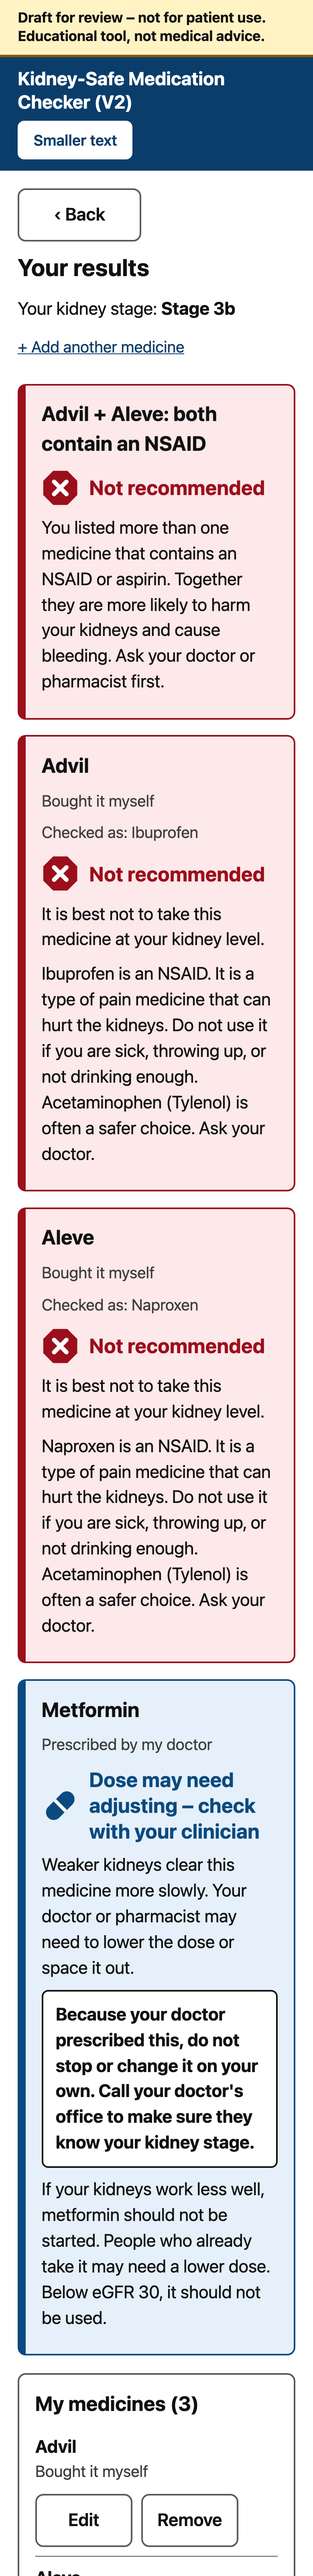
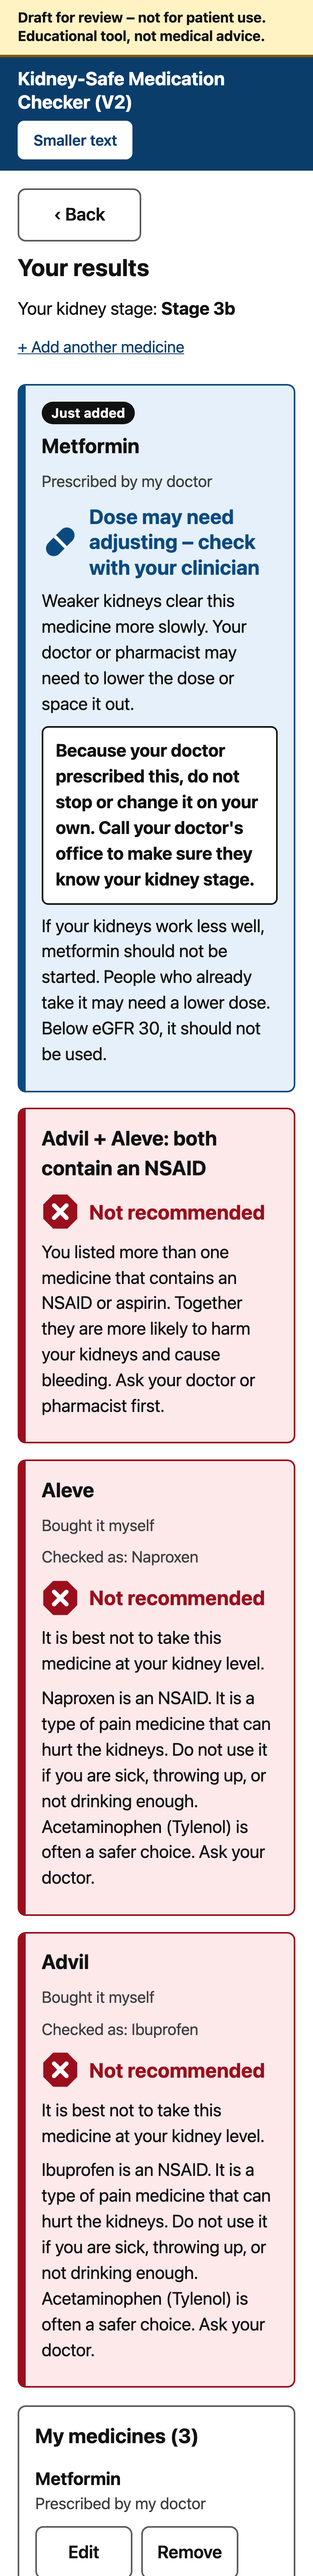
Show results newest first, with a "Just added" tag
Requested by Dr. Pramod for elderly patients, so the medicine just added
is at the top instead of at the bottom of the results.

- Results page: newest medicine card first (tagged "Just added"), then
  double-up alerts, then the remaining cards newest to oldest
- Editing a medicine makes it the newest
- "My medicines" list and printout use the same order
- Items get an addedAt number; lists saved before this change (without
  it) fall back to list position, so they load as before
- No change to results, rules, wording, or alert headings
- Tests: 6 new click-through checks, page-order test updated (142 pass)
- Version stamps rebuilt; affected screenshots retaken

diff --git a/tests.html b/tests.html
@@ -24,7 +24,7 @@
   <h2>The real site at phone width (360 px)</h2>
   <ul id="ui-list"></ul>
   <div id="ui-area"></div>
-  <script src="js/text.js?v=e4146a2474"></script>
+  <script src="js/text.js?v=b667a2ba8d"></script>
   <script src="js/engine.js?v=18e0c38dc8"></script>
   <script>
   var T = window.KMC_TEXT;
@@ -931,13 +931,14 @@
         return text().indexOf("Advil contains an NSAID and Alka-Seltzer / Alka-Seltzer Plus may contain aspirin") < 0
           ? "heading missing" : layoutProblem();
       });
-      await ui("v2 Results page order at 360 px: heading, stage, small add link, alerts, cards, list, add, change stage, print, keep box, clear link", async function () {
+      await ui("CHANGED (newest first): Results page order at 360 px: heading, stage, small add link, newest card, alerts, older cards, list, add, change stage, print, keep box, clear link", async function () {
         var q = function (sel) { return D().querySelector(sel); };
         var mainAdd = buttons().filter(function (b) { return b.classList.contains("primary") && b.textContent.trim() === T.addAnother; })[0];
         var change = buttons().filter(function (b) { return b.textContent.trim() === T.changeStage; })[0];
         var print = buttons().filter(function (b) { return b.textContent.trim() === T.printButton; })[0];
+        var cards = D().querySelectorAll(".card");
         var order = [["heading", q("#screen-title")], ["stage line", q(".stage-line")], ["small add link", q(".top-add")],
-                     ["double-up alert", q(".alert")], ["result card", q(".card")], ["My medicines", q(".my-list")],
+                     ["newest card", cards[0]], ["double-up alert", q(".alert")], ["older card", cards[1]], ["My medicines", q(".my-list")],
                      ["main add button", mainAdd], ["change stage", change], ["print", print], ["keep box", q(".keep")],
                      ["clear link", q(".danger-zone .link-button")]];
         var missing = order.filter(function (o) { return !o[1]; }).map(function (o) { return o[0]; });
@@ -958,6 +959,109 @@
         await click(T.seeResults);
         return all(!onMeds && "link did not open the medicines screen with the list", scrolled === 0 && "page too short to test scrolling",
                    W().scrollY !== 0 && "results did not open at the top (scrollY " + W().scrollY + ")");
+      });
+
+      /* Newest first (requested by Dr. Pramod): the medicine just added is the top card, with a "Just added" tag;
+         then the double-up alerts; then the other cards newest to oldest. The list and printout use the same order. */
+      function cardTitles() {
+        return Array.prototype.slice.call(D().querySelectorAll(".card h3")).map(function (e) { return e.textContent; }).join(" | ");
+      }
+      function listTitles() {
+        return Array.prototype.slice.call(D().querySelectorAll(".my-list .list-name strong")).map(function (e) { return e.textContent; }).join(" | ");
+      }
+      function printTitles() {
+        return Array.prototype.slice.call(D().querySelectorAll(".summary-row strong:first-child")).map(function (e) { return e.textContent; }).join(" | ");
+      }
+      function tags() {
+        return Array.prototype.slice.call(D().querySelectorAll(".just-added"));
+      }
+      // Each element after the first .card, up to the next .card, must be an alert; then the remaining cards.
+      function alertsRightAfterNewest() {
+        var first = D().querySelector(".card"), next = first && first.nextElementSibling, alerts = 0;
+        while (next && next.classList.contains("alert")) { alerts++; next = next.nextElementSibling; }
+        if (!alerts) return "no alert right after the newest card";
+        if (D().querySelectorAll(".alert").length !== alerts) return "an alert is not right after the newest card";
+        return next && next.classList.contains("card") ? null : "older cards do not follow the alerts";
+      }
+
+      await ui("NEW Newest first: Advil, then Metformin, then Aleve → cards Aleve | Metformin | Advil; alert right after the newest card; “Just added” only on the top card; 360 px", async function () {
+        await load();
+        await click("Stage 3b");
+        await addMed("Advil", "Bought it myself");
+        await addMed("Metformin", "Prescribed by my doctor");
+        await addMed("Aleve", "Bought it myself");
+        var medsList = listTitles();
+        await click(T.seeResults);
+        var t = tags();
+        return all(expect(cardTitles(), "Aleve | Metformin | Advil"), alertsRightAfterNewest(),
+                   expect(t.length, 1), t[0] && t[0].closest(".card") !== D().querySelector(".card") && "tag is not on the top card",
+                   t[0] && expect(t[0].textContent, "Just added"),
+                   text().indexOf("Advil + Aleve: both contain an NSAID") < 0 && "alert wording changed",
+                   expect(medsList, "Aleve | Metformin | Advil"), expect(listTitles(), "Aleve | Metformin | Advil"), layoutProblem());
+      });
+      await ui("NEW Newest first: the printout uses the same order (newest, alerts, the rest)", async function () {
+        await click(T.printButton);
+        var rows = D().querySelectorAll(".summary-row"), alert = D().querySelector(".alert");
+        var between = rows[0] && alert && (rows[0].compareDocumentPosition(alert) & 4) && (alert.compareDocumentPosition(rows[1]) & 4);
+        var titles = printTitles();
+        await back();
+        return all(expect(titles, "Aleve | Metformin | Advil"), !between && "alert is not between the newest row and the rest");
+      });
+      await ui("NEW Editing a medicine moves it to the top with the “Just added” tag; results and alert wording unchanged", async function () {
+        await click("Edit Advil");
+        await click("Bought it myself");
+        await type("dose", "200 mg");
+        await click("Save changes");
+        await sleep(250);
+        var t = tags(), top = D().querySelector(".card");
+        return all(expect(cardTitles(), "Advil | Aleve | Metformin"), expect(listTitles(), "Advil | Aleve | Metformin"),
+                   expect(t.length, 1), t[0] && t[0].closest(".card") !== top && "tag is not on the top card",
+                   top.textContent.indexOf("Not recommended") < 0 && "Advil result changed", alertsRightAfterNewest(),
+                   text().indexOf("Advil + Aleve: both contain an NSAID") < 0 && "alert wording changed", expect(listCount(), 3));
+      });
+      await ui("NEW Adding after an edit puts the new medicine on top; the edited one comes next", async function () {
+        await click(T.addAnother);
+        await addMed("Tylenol", "Bought it myself");
+        await click(T.seeResults);
+        return all(expect(cardTitles(), "Tylenol | Advil | Aleve | Metformin"), expect(listTitles(), "Tylenol | Advil | Aleve | Metformin"),
+                   expect(tags().length, 1), alertsRightAfterNewest(), layoutProblem());
+      });
+      await ui("NEW One medicine: one card with the “Just added” tag, no alert, list of 1, printout works", async function () {
+        await load();
+        await click("Stage 4");
+        await addMed("Lithium", "Prescribed by my doctor");
+        await click(T.seeResults);
+        var ok = all(expect(cardTitles(), "Lithium"), expect(tags().length, 1), D().querySelector(".alert") && "unexpected alert",
+                     expect(listTitles(), "Lithium"), text().indexOf("Dose may need adjusting") < 0 && "result missing", layoutProblem());
+        await click(T.printButton);
+        var printed = printTitles();
+        await back();
+        return all(ok, expect(printed, "Lithium"));
+      });
+      await ui("NEW A list saved before this change (no “added” numbers) still loads, oldest-added shown last", async function () {
+        await load();
+        await click("Stage 3a");
+        await addMed("Advil", "Bought it myself");
+        await addMed("Aleve", "Bought it myself");
+        await addMed("Tylenol", "Bought it myself");
+        await click(T.seeResults);
+        D().querySelector(".keep input[type=checkbox]").click();
+        await sleep(100);
+        var old = JSON.parse(saved());
+        old.items.forEach(function (item) { delete item.addedAt; });   // the format saved before this change
+        localStorage.setItem(KEY, JSON.stringify(old));
+        await load();
+        var welcome = text().indexOf("Welcome back. You have 3 medicines saved.") >= 0;
+        await click(T.welcomeAgain);
+        var order = cardTitles();
+        await click("Edit Advil");
+        await click("Bought it myself");
+        await click("Save changes");
+        await sleep(250);
+        var afterEdit = cardTitles();
+        localStorage.removeItem(KEY);
+        return all(!welcome && "old list did not load", expect(order, "Tylenol | Aleve | Advil"),
+                   expect(afterEdit, "Advil | Tylenol | Aleve"), alertsRightAfterNewest());
       });
     } finally {
       try { if (mine === null) localStorage.removeItem(KEY); else localStorage.setItem(KEY, mine); } catch (e) { /* blocked */ }

diff --git a/js/app.js b/js/app.js
@@ -200,11 +200,31 @@
     go(Engine.questionFor(table, pending) ? "answer" : "source");
   }
 
+  // Every screen shows medicines newest first, so the one just added (or edited) is always at the top.
+  // Each item gets an "addedAt" number when it is added or edited. state.items itself keeps its order,
+  // so double-up alert wording never changes. Lists saved before addedAt existed have no numbers;
+  // their place in the list (oldest first) stands in for it, so they load in the same order as before.
+  function addedAt(item, index) {
+    return typeof item.addedAt === "number" ? item.addedAt : index;
+  }
+
+  function nextStamp() {
+    return state.items.reduce(function (most, item, i) { return Math.max(most, addedAt(item, i)); }, -1) + 1;
+  }
+
+  // Takes a list parallel to state.items and returns it newest first.
+  function newestFirst(list) {
+    return list.map(function (entry, i) { return [entry, addedAt(state.items[i], i), i]; })
+      .sort(function (a, b) { return b[1] - a[1] || b[2] - a[2]; })
+      .map(function (x) { return x[0]; });
+  }
+
   function myMedicines() {
     var box = h("section", { class: "my-list", "aria-labelledby": "my-list-title" },
       h("h3", { id: "my-list-title" }, T.myMedicines + " (" + state.items.length + ")"));
     if (!state.items.length) box.appendChild(h("p", { class: "hint" }, T.emptyList));
-    state.items.forEach(function (item, index) {
+    newestFirst(state.items.map(function (item, index) { return [item, index]; })).forEach(function (pair) {
+      var item = pair[0], index = pair[1];
       box.appendChild(h("div", { class: "list-row" },
         h("div", { class: "list-name" }, h("strong", null, item.title), h("span", { class: "detail" }, itemDetail(item))),
         h("div", { class: "list-actions" },
@@ -381,6 +401,7 @@
         var item = pending;
         item.dose = input.value.trim();
         var back = stack.length - 1 - item.returnDepth;
+        item.addedAt = nextStamp();   // added or edited just now, so it becomes the newest
         if (editing) state.items[item.editIndex] = item;
         else state.items.push(item);
         delete item.editIndex;
@@ -426,8 +447,23 @@
     ];
   };
 
+  // Results newest first (see newestFirst). Double-up alerts still read the list in stored order,
+  // so their wording is unchanged.
   function outcomes() {
-    return state.items.map(function (item) { return Engine.evaluate(table, state, item); });
+    return newestFirst(state.items.map(function (item) { return Engine.evaluate(table, state, item); }));
+  }
+
+  function resultCard(result, newest) {
+    return h("article", { class: "card r-" + result.code + (newest ? " newest" : "") },
+      newest ? h("p", { class: "just-added" }, T.justAdded) : null,
+      h("h3", null, result.item.title),
+      h("p", { class: "detail" }, itemDetail(result.item)),
+      result.checkedAs ? h("p", { class: "detail" }, "Checked as: " + result.checkedAs) : null,
+      h("div", { class: "headline" }, icon(result.code), h("strong", null, result.headline)),
+      h("p", null, result.explanation),
+      result.safety ? h("p", { class: "safety" }, result.safety) : null,
+      result.alert ? h("p", null, h("strong", null, result.alert)) : null,
+      result.notes.map(function (note) { return h("p", null, note); }));
   }
 
   function alertBox(alert) {
@@ -446,19 +482,11 @@
       h("p", { class: "stage-line" }, "Your kidney stage: ", h("strong", null, stageLine())),
       h("button", { type: "button", class: "link-button top-add", onclick: function () { go("meds"); } }, T.addAnother)
     ];
+    // Order: the newest medicine (tagged "Just added"), then the double-up alerts, then the rest, newest to oldest.
+    var results = outcomes();
+    if (results.length) body.push(resultCard(results[0], true));
     Engine.doubleUps(table, state.items).forEach(function (alert) { body.push(alertBox(alert)); });
-
-    outcomes().forEach(function (result) {
-      body.push(h("article", { class: "card r-" + result.code },
-        h("h3", null, result.item.title),
-        h("p", { class: "detail" }, itemDetail(result.item)),
-        result.checkedAs ? h("p", { class: "detail" }, "Checked as: " + result.checkedAs) : null,
-        h("div", { class: "headline" }, icon(result.code), h("strong", null, result.headline)),
-        h("p", null, result.explanation),
-        result.safety ? h("p", { class: "safety" }, result.safety) : null,
-        result.alert ? h("p", null, h("strong", null, result.alert)) : null,
-        result.notes.map(function (note) { return h("p", null, note); })));
-    });
+    results.slice(1).forEach(function (result) { body.push(resultCard(result, false)); });
 
     body.push(myMedicines());
     body.push(button(T.addAnother, function () { go("meds"); }, "primary"));
@@ -495,19 +523,21 @@
   };
 
   screens.summary = function () {
-    var list = h("div", { class: "summary-list" });
-    outcomes().forEach(function (result) {
-      list.appendChild(h("div", { class: "summary-row r-" + result.code },
+    function row(result) {
+      return h("div", { class: "summary-row r-" + result.code },
         h("div", null, h("strong", null, result.item.title),
           h("span", { class: "detail" }, [result.checkedAs, itemDetail(result.item)].filter(Boolean).join(" · "))),
-        h("div", { class: "headline" }, icon(result.code), h("strong", null, result.label))));
-    });
+        h("div", { class: "headline" }, icon(result.code), h("strong", null, result.label)));
+    }
+    // Same order as the results page: newest medicine, then the double-up alerts, then the rest.
+    var results = outcomes();
     return [
       title("Summary for my doctor"),
       h("p", null, h("strong", null, "Date: "), niceDate()),
       h("p", null, h("strong", null, "Kidney stage: "), stageLine()),
+      results.length ? h("div", { class: "summary-list" }, row(results[0])) : null,
       Engine.doubleUps(table, state.items).map(alertBox),
-      list,
+      results.length > 1 ? h("div", { class: "summary-list" }, results.slice(1).map(row)) : null,
       button("Print this page", function () { window.print(); }, "primary no-print")
     ];
   };

diff --git a/index.html b/index.html
@@ -6,7 +6,7 @@
   <meta name="viewport" content="width=device-width, initial-scale=1">
   <title>Kidney-Safe Medication Checker (V2)</title>
   <link rel="icon" href="data:,">
-  <link rel="stylesheet" href="css/style.css?v=846e33ee72">
+  <link rel="stylesheet" href="css/style.css?v=20e5b8c4e2">
 </head>
 <body>
   <div class="draft-banner" role="note">Draft for review – not for patient use. Educational tool, not medical advice.</div>
@@ -30,8 +30,8 @@
       setTimeout(stuck, 10000);
     })();
   </script>
-  <script src="js/text.js?v=e4146a2474"></script>
+  <script src="js/text.js?v=b667a2ba8d"></script>
   <script src="js/engine.js?v=18e0c38dc8"></script>
-  <script src="js/app.js?v=3b9b3df28c"></script>
+  <script src="js/app.js?v=7245a34c20"></script>
 </body>
 </html>

diff --git a/css/style.css b/css/style.css
@@ -171,6 +171,18 @@ input[type="text"], input[type="search"], input[type="date"] {
   border-radius: 10px;
 }
 .card h3, .alert h3 { margin-top: 0; margin-bottom: 0; overflow-wrap: anywhere; }
+/* The small tag on the medicine added (or edited) most recently, which is always the top card. */
+.just-added {
+  display: inline-block;
+  margin: 0 0 0.4rem;
+  padding: 0.1rem 0.55rem;
+  background: var(--ink);
+  color: #fff;
+  border-radius: 999px;
+  font-size: 0.75rem;
+  font-weight: 700;
+  letter-spacing: 0.02em;
+}
 .did-you-mean { margin-bottom: 0; }
 .headline {
   display: flex;

diff --git a/js/text.js b/js/text.js
@@ -31,6 +31,7 @@ window.KMC_TEXT = {
   "emptyList": "Your list is empty.",
   "seeResults": "See my results",
   "addAnother": "+ Add another medicine",
+  "justAdded": "Just added",
   "changeStage": "Change my kidney stage",
   "printButton": "Print or show my doctor",
   "keepLabel": "Keep my list on this phone for next time",

diff --git a/README.md b/README.md
@@ -41,7 +41,7 @@ python3 -m http.server 8000
 Then open:
 
 - **http://localhost:8000** for the checker
-- **http://localhost:8000/tests.html** for the automated tests. The page runs on its own and shows "All 136 tests passed…" at the top within a few seconds.
+- **http://localhost:8000/tests.html** for the automated tests. The page runs on its own and shows "All 142 tests passed…" at the top within a few seconds.
 
 Stop the server with Control+C. You can't open the site by double-clicking `index.html`, because browsers block it from reading `data/table.json` that way. To try it on a phone on the same Wi-Fi, open `http://YOUR-COMPUTER-IP:8000` (on a Mac, find the IP with `ipconfig getifaddr en0`).
 
@@ -52,7 +52,7 @@ Stop the server with Control+C. You can't open the site by double-clicking `inde
 [`tests.html`](tests.html) has two parts:
 
 1. **Medical rules (112 tests).** It checks the decision engine (`js/engine.js`) against the real table: expected results for each stage, combination products, double-up warnings, eGFR follow-up questions, search, and the exact wording patients see.
-2. **The real site at phone width (24 tests).** It loads the actual website in a 360-pixel-wide frame and clicks through it like a patient would. It checks that buttons are big enough to tap (at least 48 px), that nothing scrolls sideways, and that results, editing, the saved list, the printout, and the disclaimer behave correctly.
+2. **The real site at phone width (30 tests).** It loads the actual website in a 360-pixel-wide frame and clicks through it like a patient would. It checks that buttons are big enough to tap (at least 48 px), that nothing scrolls sideways, and that results, editing, the saved list, the printout, and the disclaimer behave correctly. It also checks the newest-first order: the medicine just added (or edited) is the top card with a "Just added" tag, then any double-up alerts, then the rest, newest to oldest, in the list and printout too.
 
 The tests save and restore any medicine list stored in that browser, so running them won't erase your own list.
 
@@ -84,7 +84,7 @@ The tests save and restore any medicine list stored in that browser, so running 
 
 - [**Evaluation summary**](results/evaluation_summary.md): how often the AI-drafted table matched the nephrologist's final answers, with and without the FDA label check, plus reading levels.
 - [**Label check summary**](results/label_check_summary.md): 42 medicines compared with their FDA labels. 20 agree, 13 where the nephrologist's rule is stricter than the label, 4 where the label is silent, 3 with no label, and 2 where the label is stricter.
-- [**Test results**](results/test_results.md): all 136 tests pass on the live site (112 rules, 24 on the real site).
+- [**Test results**](results/test_results.md): all 142 tests pass (112 rules, 30 on the real site).
 - **Screenshots** of the live site at phone width (390 px):
 
 | Stage screen | Results with a double-up alert | "My medicines" list | Printout for the doctor |

diff --git a/results/test_results.md b/results/test_results.md
@@ -1,18 +1,18 @@
 # Test results
 
-**Result: All 136 tests passed (112 rules, 24 on the real site). 0 failed.**
+**Result: All 142 tests passed (112 rules, 30 on the real site). 0 failed.**
 
 | | |
 |---|---|
 | Date run | November 17, 2026 |
-| Page | https://avelarde2004.github.io/kidney-med-checker/tests.html (the live site) |
+| Page | http://localhost:8000/tests.html (local copy, before publishing) |
 | Browser | Google Chrome 157 (headless), on macOS |
 | Data | `data/table.json` built from the final nephrologist-approved table (v2) |
 
 ## What the tests cover
 
 - **Medical rules (112):** expected results for every stage, combination products, double-up warnings (NSAID or aspirin, acetaminophen), eGFR follow-up questions, Alka-Seltzer "Does it list aspirin?" answers, search (brand names, misspellings), and the exact wording patients see.
-- **The real site at phone width (24):** the actual website loaded in a 360-pixel-wide frame and clicked through like a patient would. These check tap targets of at least 48 px, no sideways scrolling, the results-page order, editing and removing medicines, the keep-on-this-phone option, the printout, the text-size button, and that typed text can never run as code.
+- **The real site at phone width (30):** the actual website loaded in a 360-pixel-wide frame and clicked through like a patient would. These check tap targets of at least 48 px, no sideways scrolling, the results-page order, editing and removing medicines, the keep-on-this-phone option, the printout, the text-size button, that typed text can never run as code, and the newest-first order of results, list and printout (including after an edit, with one medicine, and with lists saved before that change).
 
 ## Run them yourself
 
